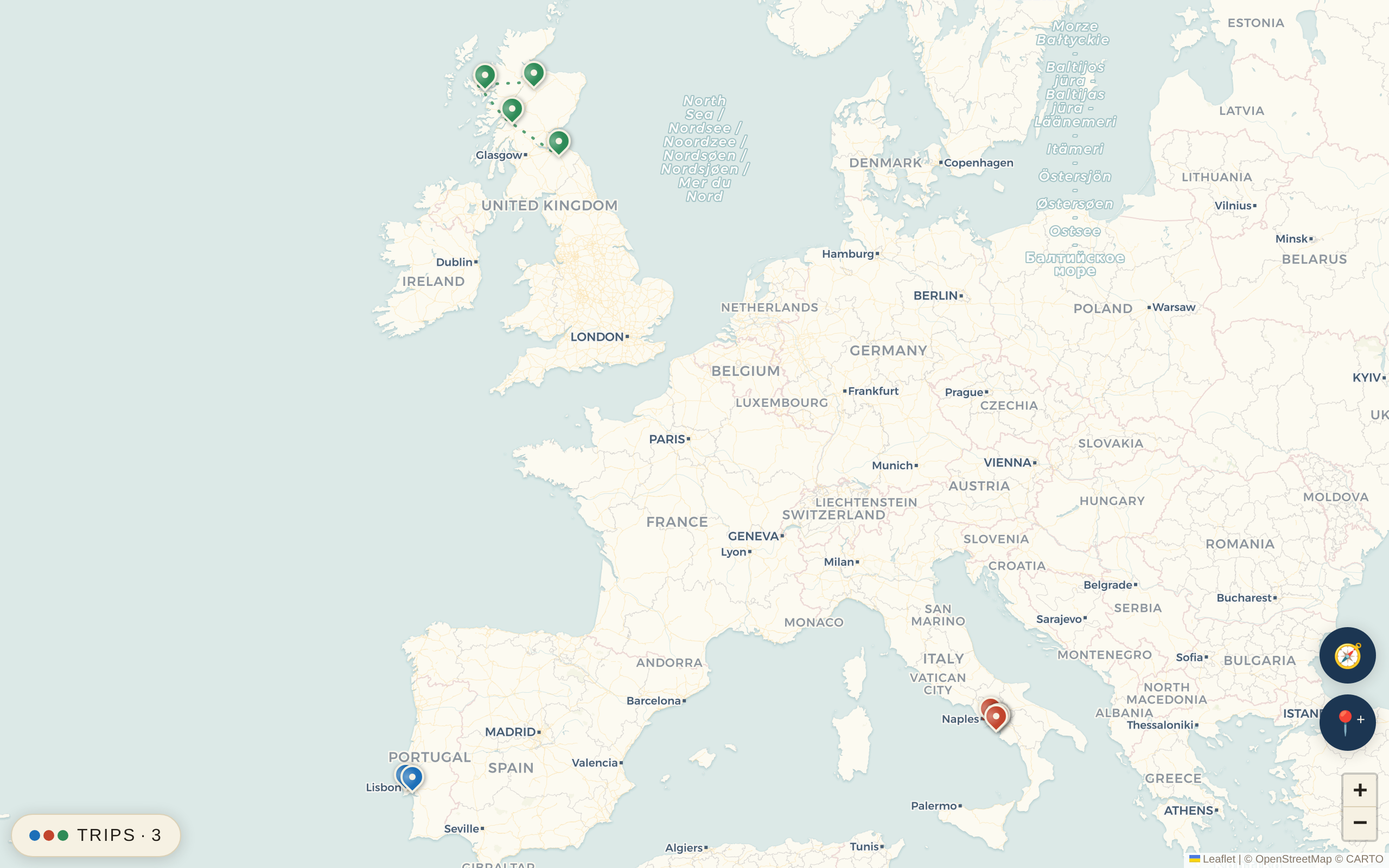
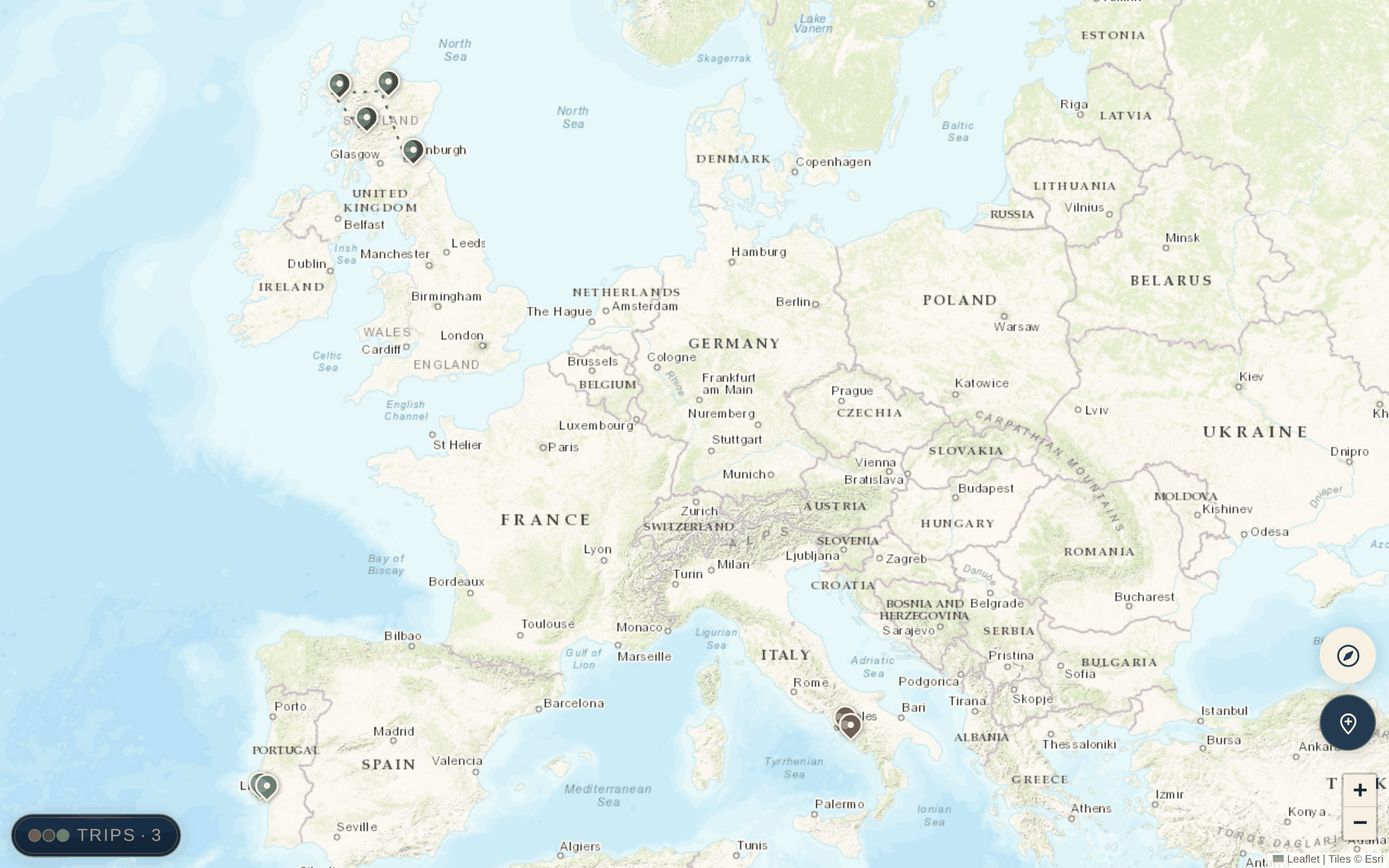
docs: regenerate README screenshots on the Esri plate and the cover design
The two README images still showed the CARTO basemap, watermarked
"API KEY REQUIRED" since late August, and the pre-cover chrome. Both
reshot at 1280x800 @2x from the same three fictional trips; the story
now opens on Glencoe so all four chapters and the topo plate show.
The Playwright script that seeds the demo and takes the shots is
checked in beside them this time.

Claude-Session: https://claude.ai/code/session_01G4ThwGQ1z7NeMPJFwnGJg6

diff --git a/docs/screenshots.js b/docs/screenshots.js
@@ -1,0 +1,54 @@
+// Regenerates docs/map.png + docs/story.png: run a throwaway container with a fresh DB on :8097
+// (ADMIN_USERNAME=demo ADMIN_PASSWORD=demo-pass-1234), then `OUT=docs node docs/screenshots.js`
+// from a directory with playwright installed. Seeds three fictional trips on first run.
+const { chromium } = require('playwright');
+const EXE='/home/giedrius/.cache/ms-playwright/chromium_headless_shell-1234/chrome-headless-shell-linux64/chrome-headless-shell';
+const BASE='http://localhost:8097', OUT=process.env.OUT||'.';
+const trips=[
+ {name:'Scottish Highlands',color:'#2e7d4f',start:'2025-05-12',end:'2025-05-18',pins:[
+   [56.682,-5.104,'Glencoe','The Three Sisters in full cloud drama.','2025-05-12T14:00:00Z'],
+   [57.412,-6.196,'Isle of Skye','Portree harbour, then the Old Man of Storr.','2025-05-14T11:00:00Z'],
+   [57.478,-4.225,'Inverness','Last dram by the River Ness.','2025-05-16T19:00:00Z'],
+   [55.953,-3.188,'Edinburgh','One more night, on the Royal Mile.','2025-05-18T17:00:00Z']]},
+ {name:'Lisbon',color:'#1d6fb8',start:'2024-10-03',end:'2024-10-08',pins:[
+   [38.712,-9.130,'Alfama','Tram 28 and pastéis for breakfast.','2024-10-04T10:00:00Z'],
+   [38.797,-9.390,'Sintra','Pena Palace in the mist.','2024-10-06T12:00:00Z']]},
+ {name:'Amalfi Coast',color:'#c0392b',start:'2025-06-20',end:'2025-06-27',pins:[
+   [40.852,14.268,'Naples','Pizza at Da Michele, twice.','2025-06-21T13:00:00Z'],
+   [40.628,14.485,'Positano','Steps, lemons, the sea.','2025-06-24T16:00:00Z']]},
+];
+(async()=>{
+ const b=await chromium.launch({executablePath:EXE});
+ const ctx=await b.newContext({viewport:{width:1280,height:800},deviceScaleFactor:2,serviceWorkers:'block',colorScheme:'light'});
+ const p=await ctx.newPage();
+ await p.goto(BASE,{waitUntil:'networkidle'});
+ await p.fill('#login-user','demo'); await p.fill('#login-pass','demo-pass-1234');
+ await p.click('#login-form button[type=submit]'); await p.waitForSelector('#login',{state:'hidden'});
+ const api=(m,u,body)=>p.evaluate(async([m,u,body])=>{const r=await fetch(u,{method:m,headers:{'Content-Type':'application/json'},body:JSON.stringify(body)});return [r.status,await r.text()]},[m,u,body]);
+ const existing=await p.evaluate(()=>fetch('/api/holidays').then(r=>r.json()));
+ if(!existing.length){
+  for(const t of trips){
+   const [s,txt]=await api('POST','/api/holidays',{name:t.name,color:t.color,start_at:t.start,end_at:t.end});
+   if(s!==200&&s!==201) throw new Error('holiday '+s+' '+txt);
+   const h=JSON.parse(txt);
+   for(const [lat,lng,title,note,at] of t.pins){
+     const [ps,pt]=await api('POST','/api/pins',{holiday_id:h.id,lat,lng,title,note,created_at:at});
+     if(ps!==200&&ps!==201) throw new Error('pin '+ps+' '+pt);
+   }
+  }
+  await p.reload({waitUntil:'networkidle'}); await p.waitForTimeout(1500);
+ }
+ // 1. the atlas: Europe, sheet collapsed
+ await p.evaluate(()=>{ map.setView([49.2,8.5],5,{animate:false}); });
+ await p.waitForTimeout(3500);
+ await p.screenshot({path:OUT+'/map.png'});
+ // 2. a trip story, opened at Skye
+ const hs=await p.evaluate(()=>fetch('/api/holidays').then(r=>r.json()));
+ const h=hs.find(x=>x.name==='Scottish Highlands');
+ const pins=await p.evaluate(()=>state.pins);
+ const skye=pins.find(x=>x.title==='Glencoe');
+ await p.evaluate(([h,id])=>openStory(h,id),[h,skye.id]);
+ await p.waitForTimeout(3500);
+ await p.screenshot({path:OUT+'/story.png'});
+ await b.close();
+})().catch(e=>{console.error('ERR',e.message);process.exit(1)});
